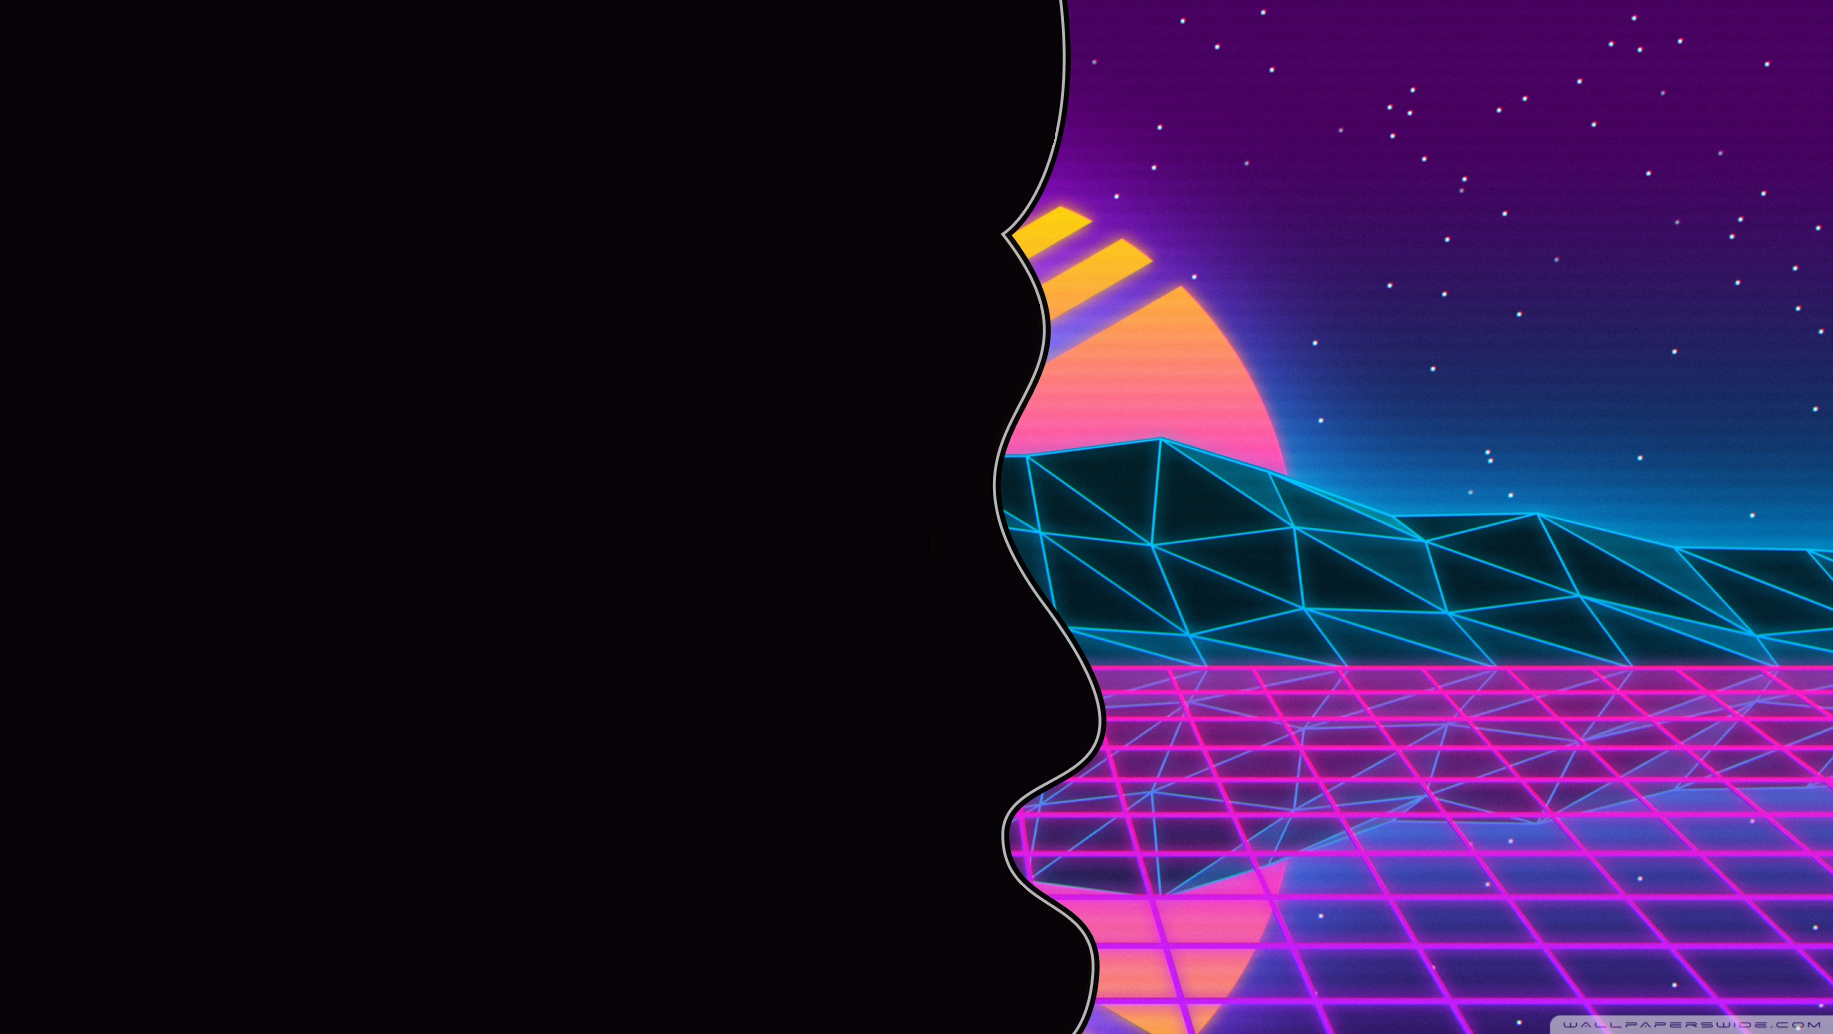
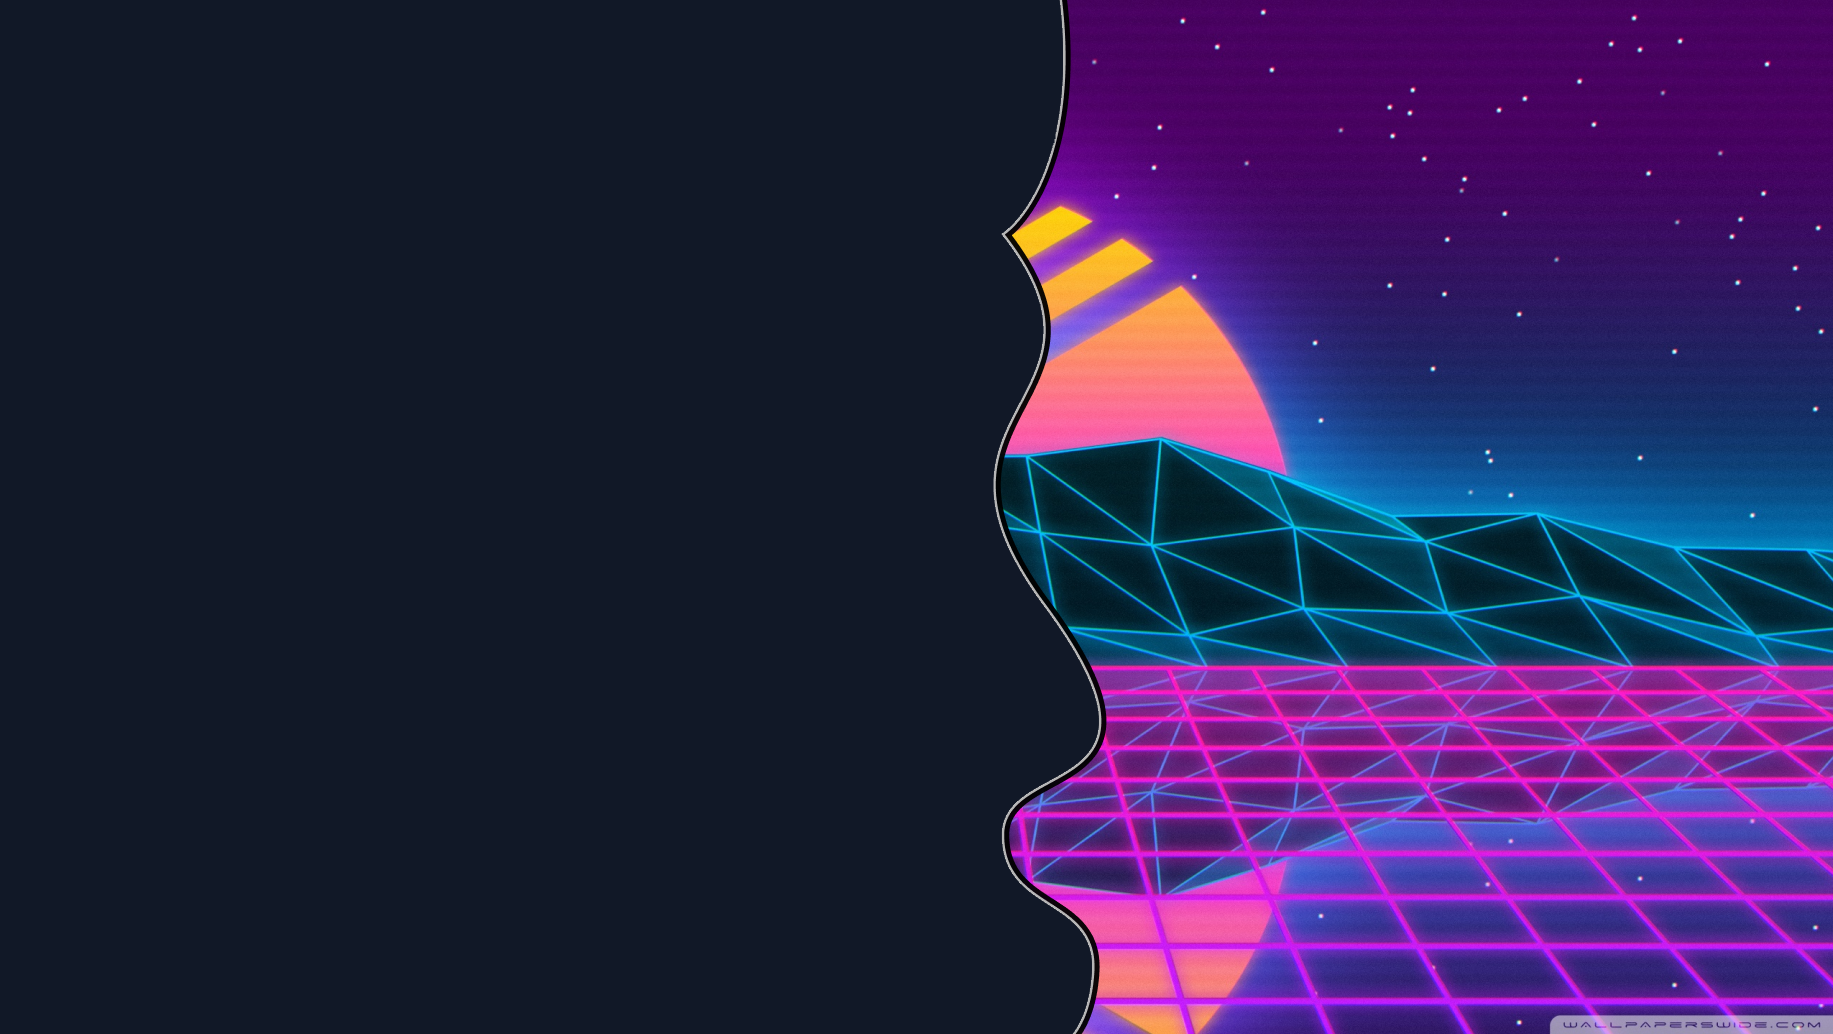
Feat: info text, minor styling changes

diff --git a/src/components/General.vue b/src/components/General.vue
@@ -6,8 +6,21 @@
 </script>
 
 <template>
-  <div class="flex flex-col items-center justify-center 2xl:px-20">
+  <div class="flex flex-col items-center justify-center text-start 2xl:px-20">
     <img src="../assets/logo.png" alt="logo" class="mx-auto w-3/4 sm:w-max" />
+    <div class="max-w-md md:text-lg">
+      <p>
+        Welcome to BoreNoMore, where boredom meets its match. We understand that life can sometimes
+        feel dull, so we're here to spice things up with a world of exciting activities tailored
+        just for you.
+      </p>
+      <ol class="list-disc">
+        <p class="py-4 font-semibold">How it works:</p>
+        <li>Feeling Bored? 🙁</li>
+        <li>Tap "Generate Activity" for Instant Fun! 🎉</li>
+        <li>Explore Categories, Save Favorites, and Share with Friends! 🚀</li>
+      </ol>
+    </div>
     <div class="mt-4 flex justify-center gap-4">
       <button @click="fetchFree?.()" class="buttonActivity">🔎 Free activity</button>
       <button @click="fetchPaid?.()" class="buttonActivity">🔎 Paid activity</button>

diff --git a/src/pages/Board.vue b/src/pages/Board.vue
@@ -1,13 +1,15 @@
 <script setup lang="ts">
-import { storeToRefs } from "pinia";
-import { useActivityStore } from "../store/activity";
+  import { storeToRefs } from "pinia";
+  import { useActivityStore } from "../store/activity";
 
-const acitityStore = useActivityStore();
+  const acitityStore = useActivityStore();
 
-const { favorites } = storeToRefs(acitityStore);
-favorites;
+  const { favorites } = storeToRefs(acitityStore);
+  favorites;
 </script>
 
-<template></template>
+<template>
+  <div class="h-screen w-screen bg-gray-900"></div>
+</template>
 
 <style scoped></style>
